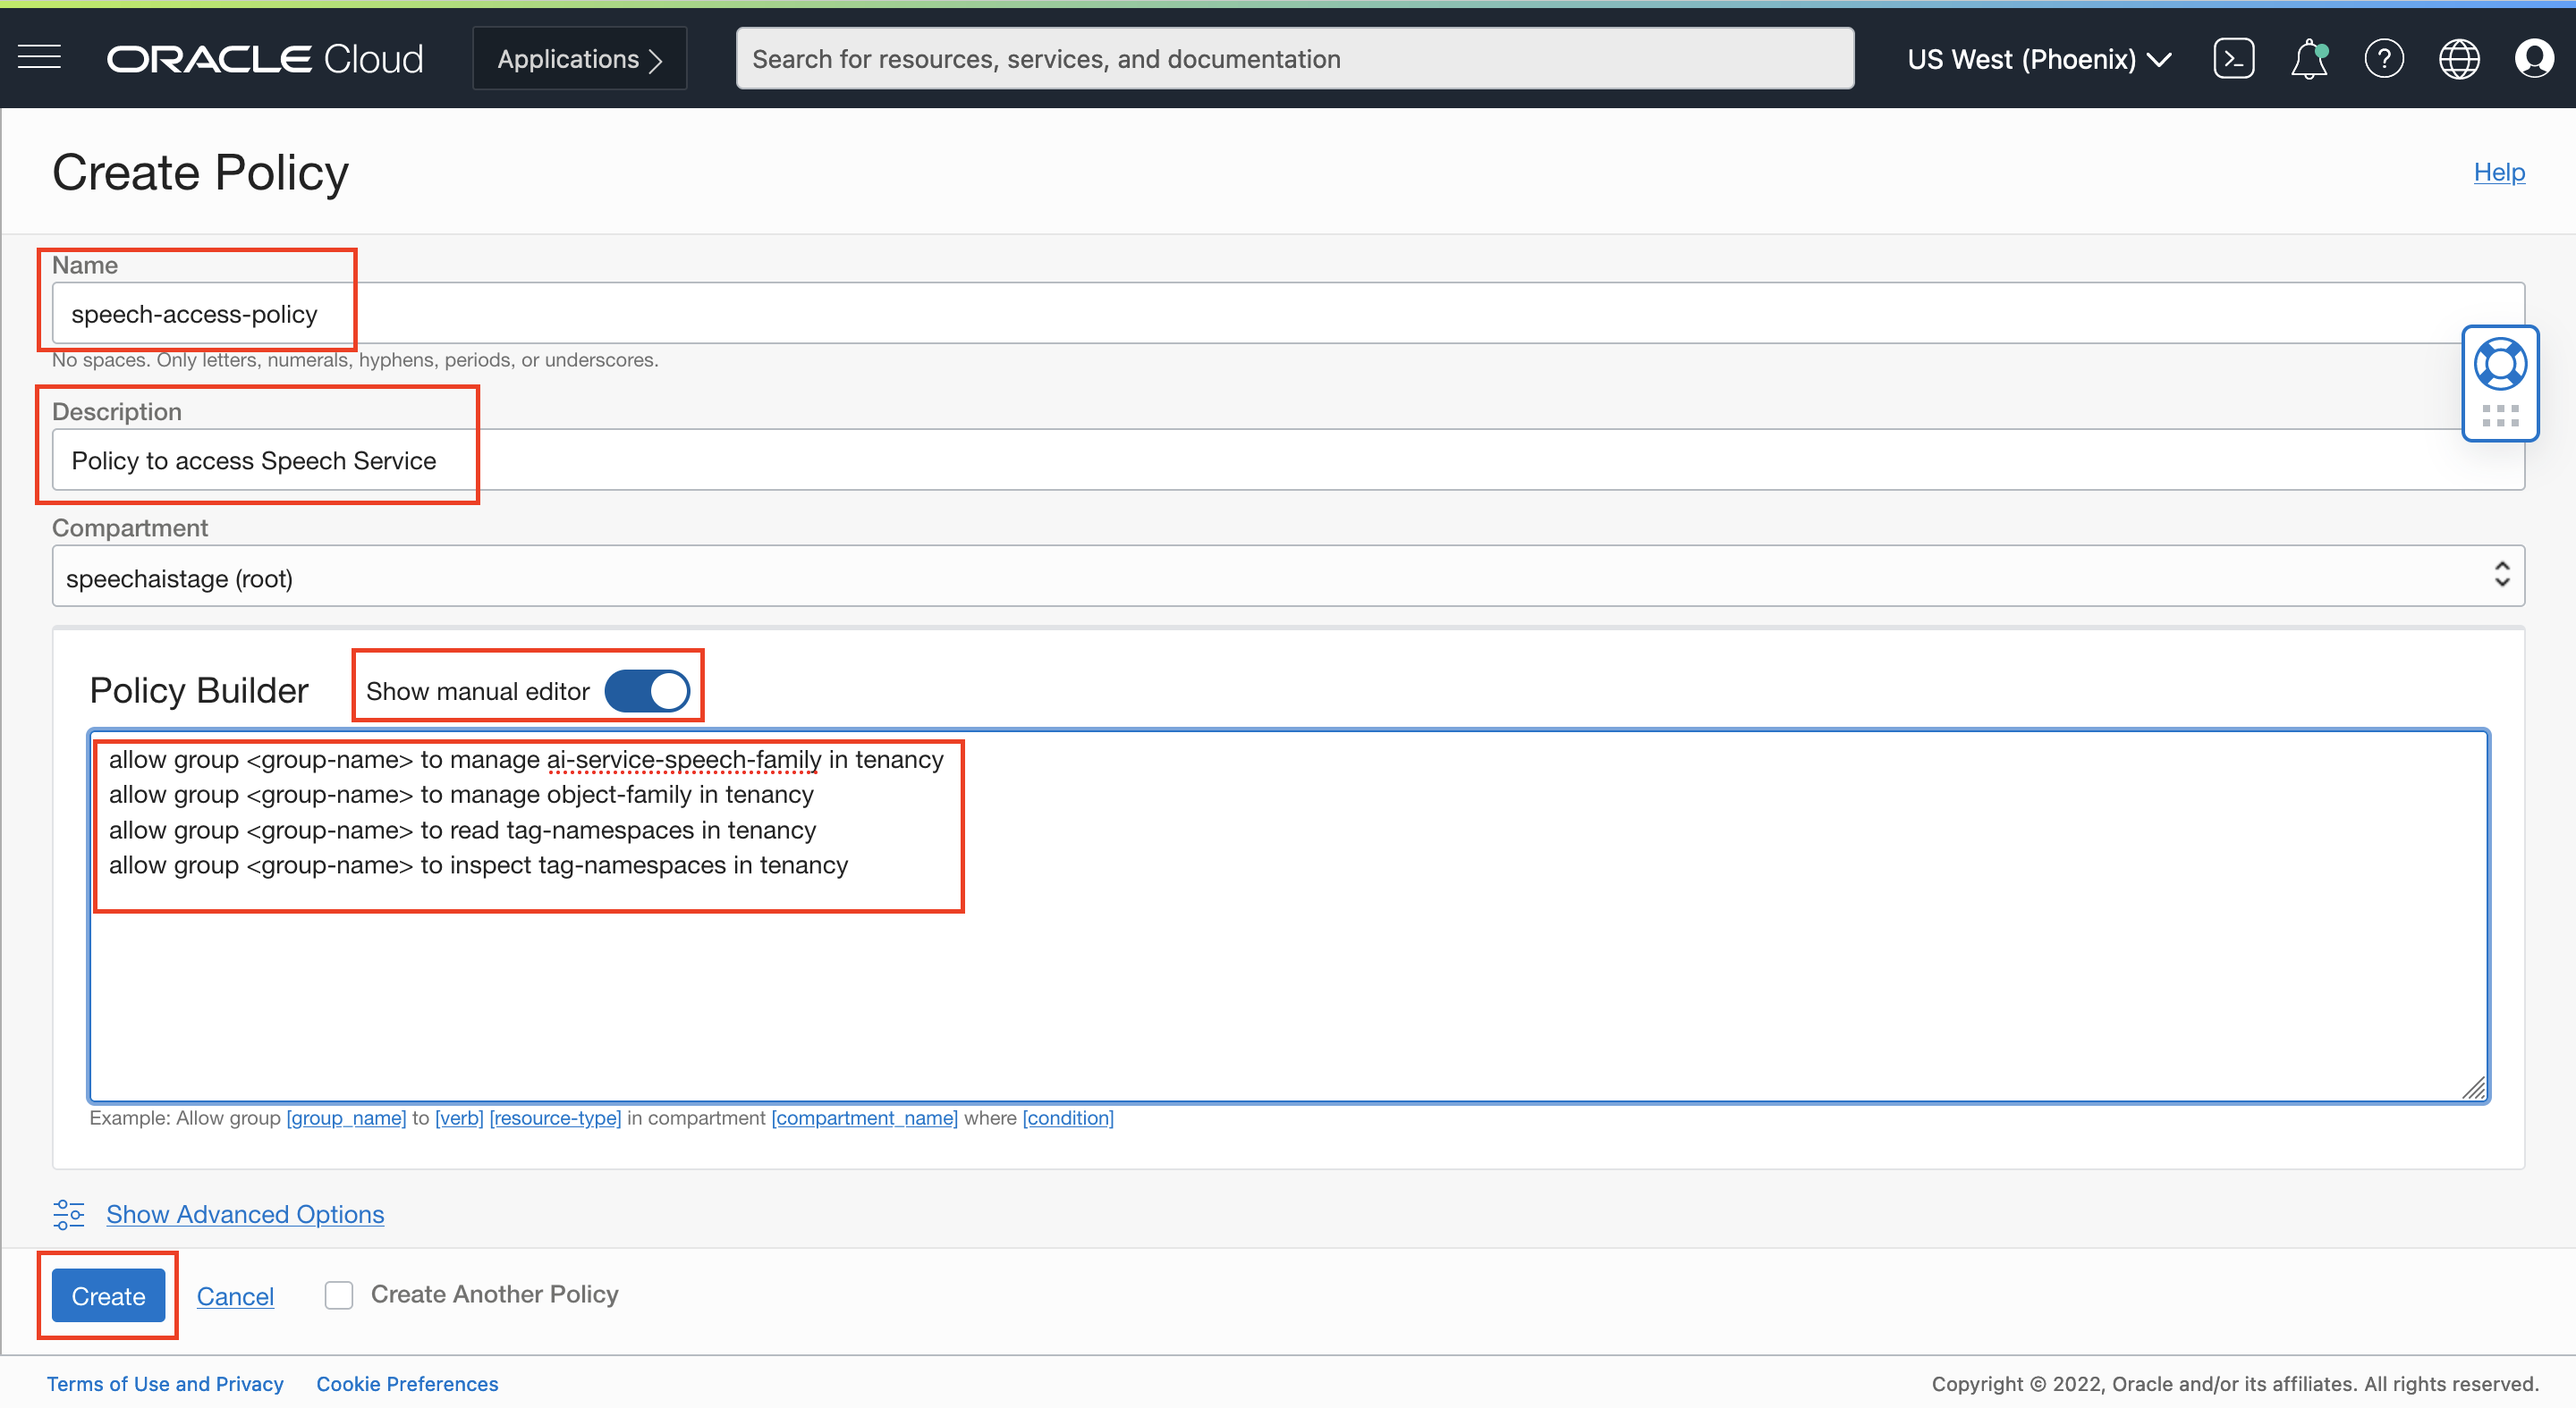
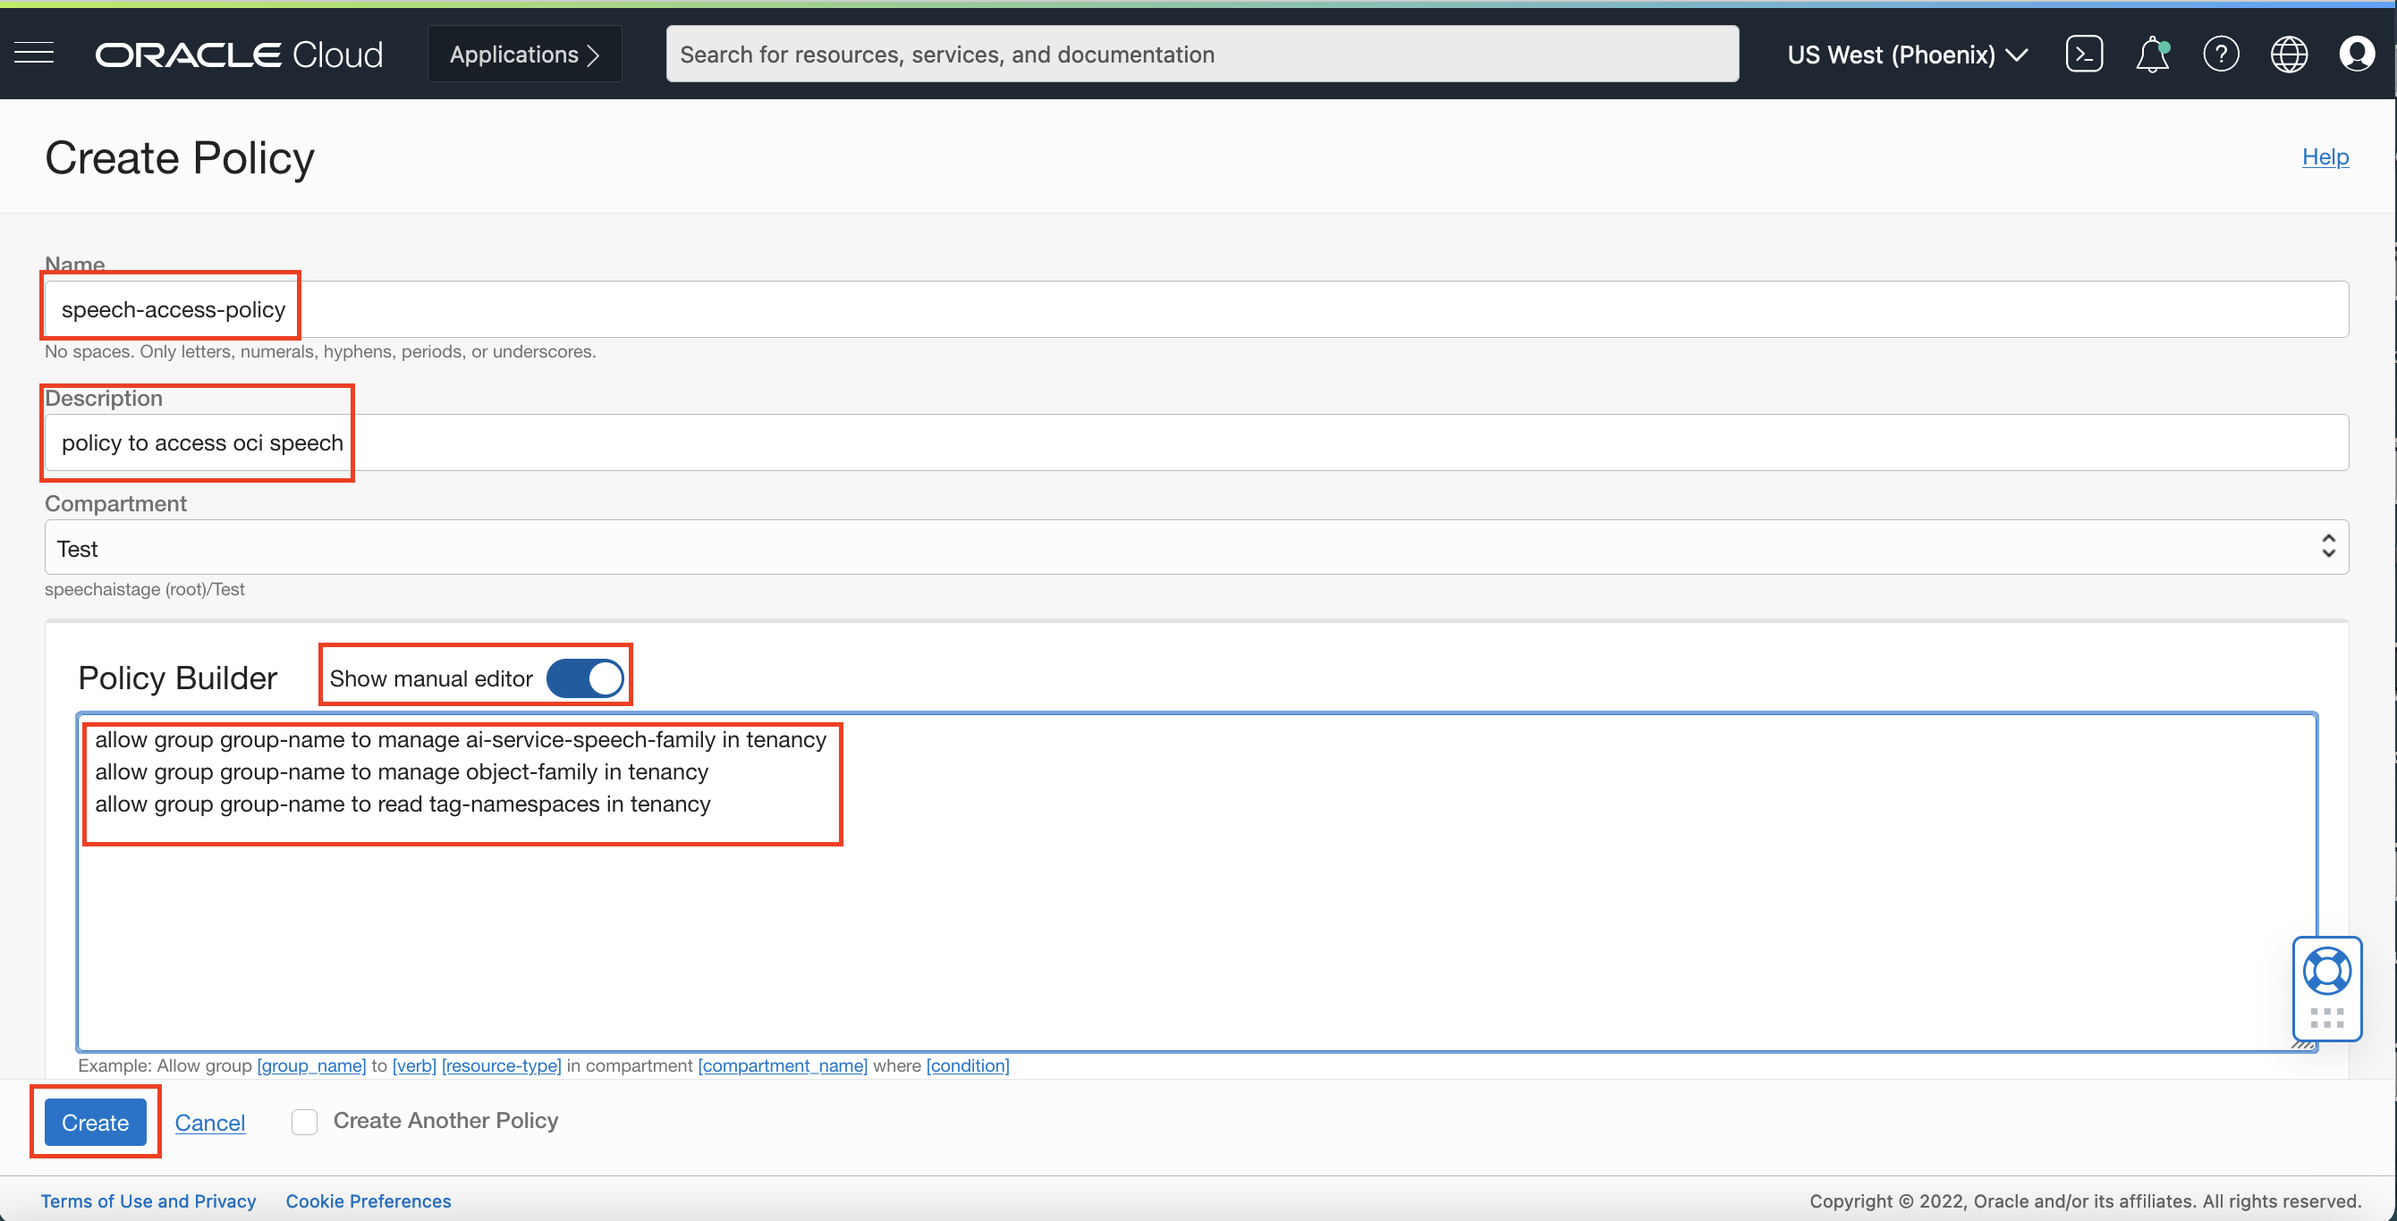
redid screenshots for lab 1

diff --git a/oci-library/oci-hol/oci-artificial-intelligence/ai-speech/transcribe-audio/transcribe-audio.md b/oci-library/oci-hol/oci-artificial-intelligence/ai-speech/transcribe-audio/transcribe-audio.md
@@ -43,24 +43,49 @@ If you want to allow all the users in your tenancy to use speech service, create
     ![](./images/any-user-policy.png " ")
 
 
-If you want to limit access to a user group, create a new policy with the below statement:
+If you want to limit access to a user group, first create a group
+
+navigate to oci groups:
+    ![](./images/navigate-to-groups.png " ")
+
+click "Create Group"
+    ![](./images/create-group.png " ")
+
+add group name and description, click create
+    ![](./images/group-name-description.png " ")
+
+to add users click "Add User to Group" and select user from dialog
+    ![](./images/add-users-to-group.png " ")
+
+
+
+
+create a new policy with the below statement:
     ```
     <copy>
-    allow group <group-name> to manage ai-service-speech-family in tenancy
-    allow group <group-name> to manage object-family in tenancy
-    allow group <group-name> to read tag-namespaces in tenancy
+    allow group group-name to manage ai-service-speech-family in tenancy
+    allow group group-name to manage object-family in tenancy
+    allow group group-name to read tag-namespaces in tenancy
     </copy>
     ```
     ![](./images/group-name-policy.png " ")
 
-## **TASK 1:** Manage a Transcription Job
-
-### 1: Navigate to OCI Speech
+## **TASK 1:** Navigate to Overview Page
 
 Log into OCI Cloud Console. Using the Burger Menu on the top left corner, navigate to Analytics and AI menu and click it, and then select Language item under AI services.
     ![](./images/navigate-to-ai-speech-menu.png " ")
 
-Then, click "Transcription Job" to navigate to transcription jobs list.
+This will navigate you to the transcription jobs overview page.
+On the left you can toggle between overview and transcription jobs listing page.
+Under documentation you can find helpful links relevant to OCI speech service
+    ![](./images/overview-page.png " ")
+
+
+## **TASK 2:** Create and Manage Transcription Job
+
+### 1: Navigate to OCI Speech
+
+Click "Transcription Job" to navigate to transcription jobs list.
     ![](./images/click-Transcription-Job.png " ")
 
 ### 2: Create Transcription Job
@@ -93,7 +118,7 @@ Select one or more files to transcribe from the specified bucket in object stora
 Once the job is created you will be directed back to the transcription jobs list page, where the newly created job will be at the top
     ![](./images/new-job-in-list.png " ")
 
-## **TASK 2:** Viewing the Results
+## **TASK 3:** Viewing the Results
 
 To view the result of the transcription we will navigate to each the job and task details page
 
@@ -120,7 +145,7 @@ Similar to the job details page, on the task details page we can view specific m
     ![](./images/task-details-page.png " ")
 
 
-## **TASK 3:** Downloading and Viewing the Results in JSON
+## **TASK 4:** Downloading and Viewing the Results in JSON
 
 You can click "Download transcript" in the top left to download the transcript in JSON format. Click the "Show JSON button" to view the transcription in JSON format.
     ![](./images/show-JSON-button.png " ")
